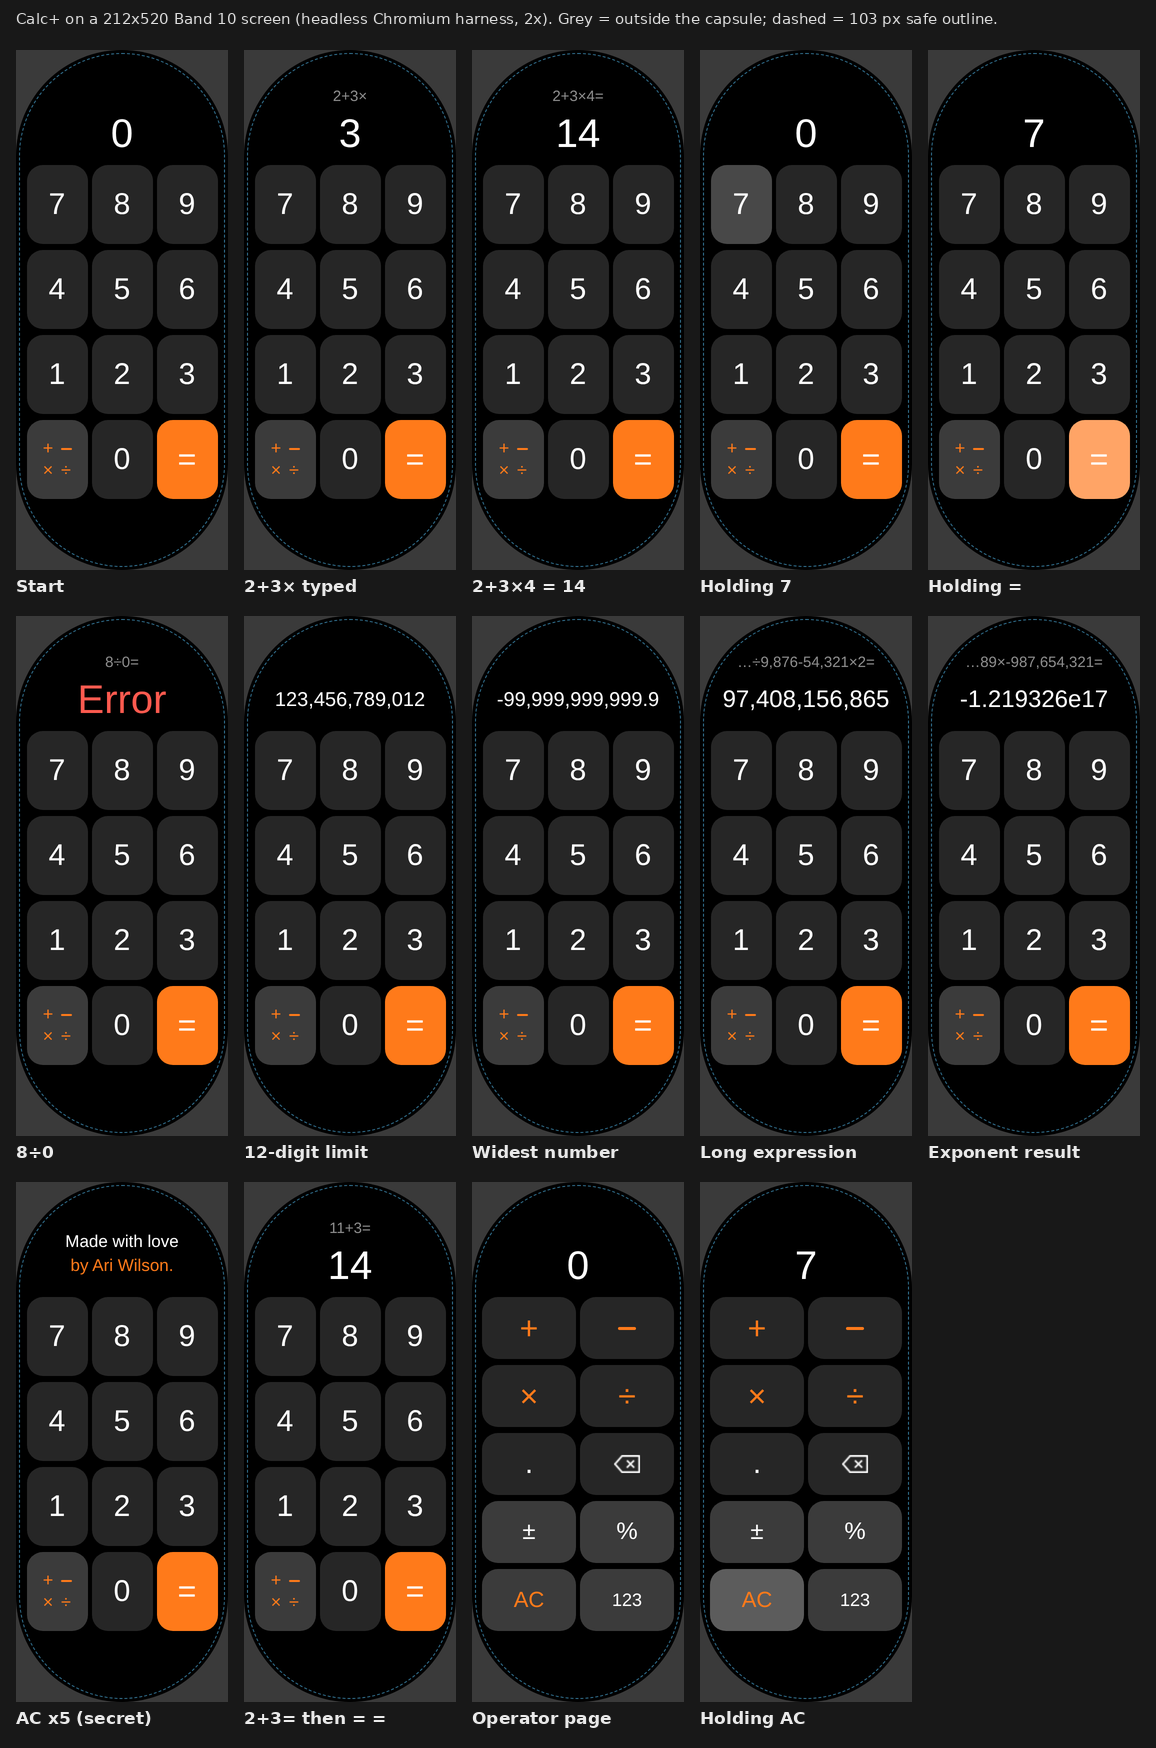
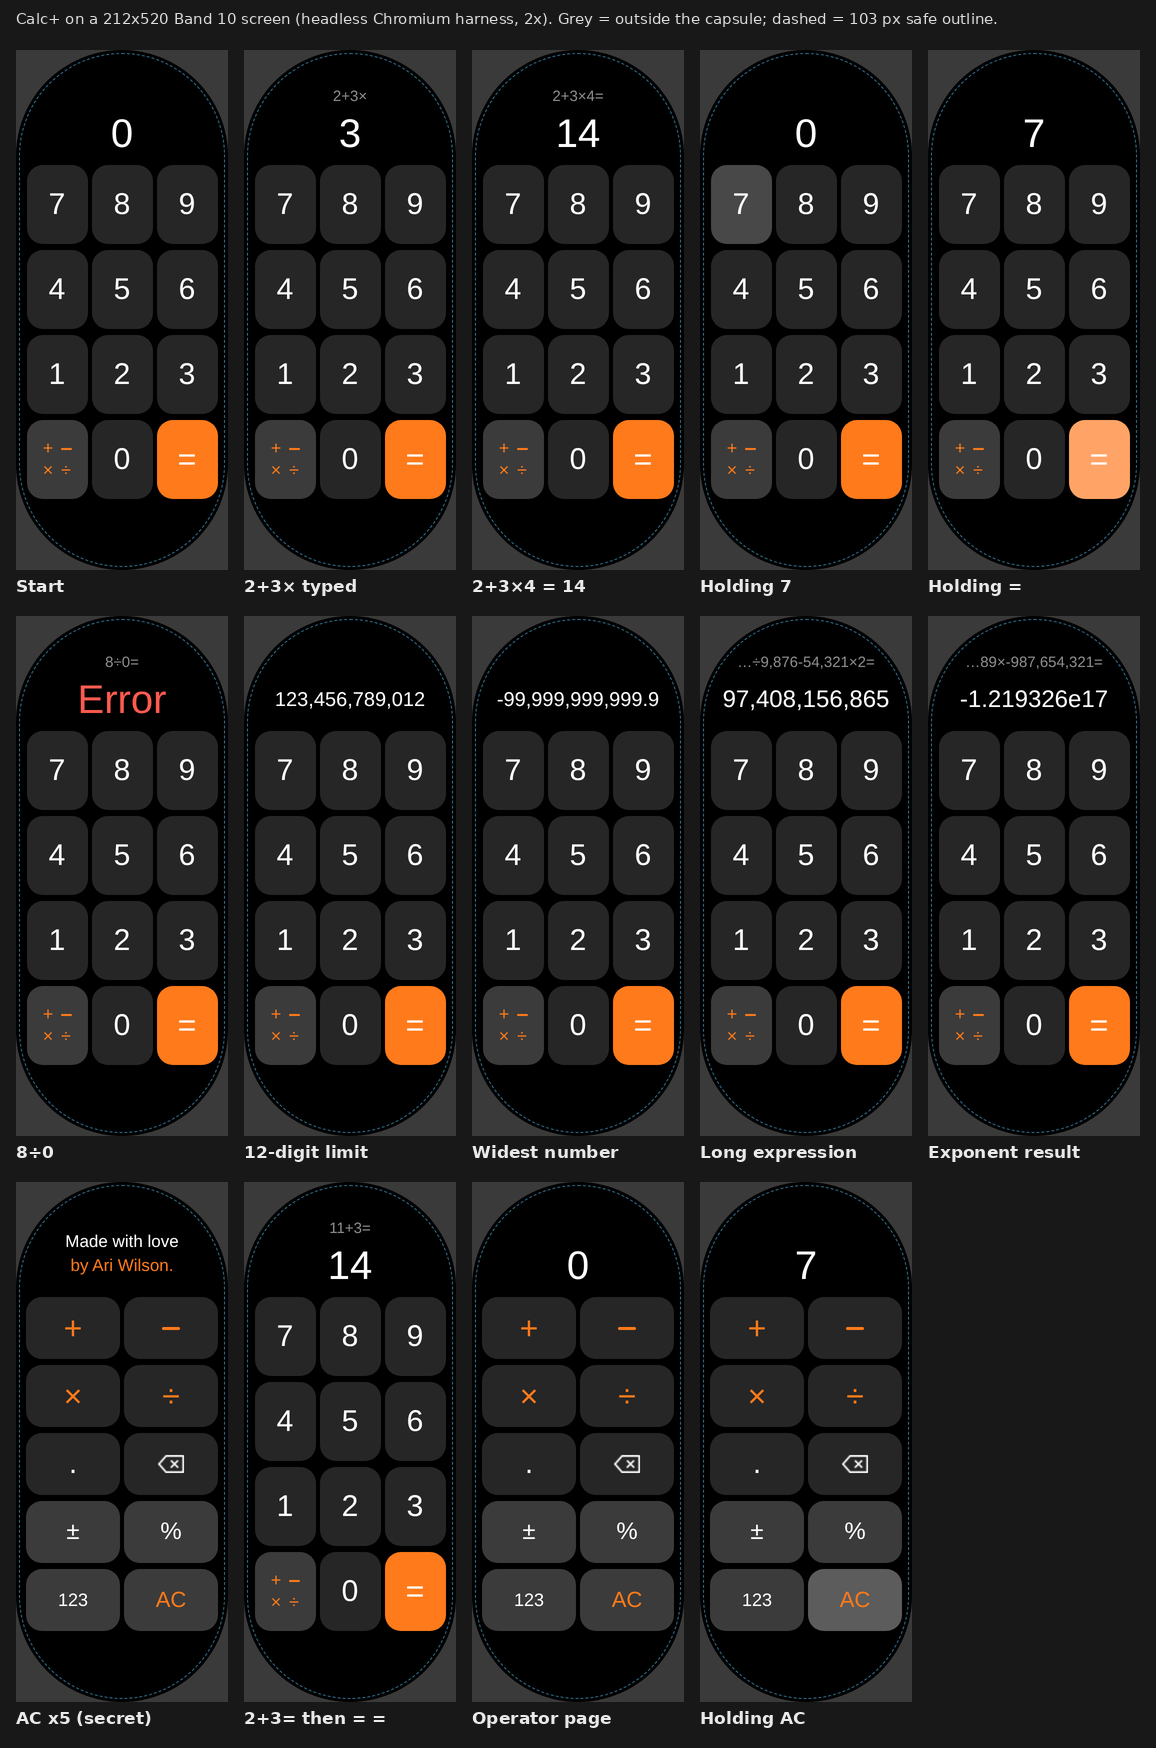
Put 123 under +−×÷ and AC bottom right; let AC repeat for the secret
The page switch was bottom left on the digit page but bottom right on the
operator page. 123 now sits in the same bottom-left spot as +−×÷, so one
spot toggles the pages, and AC moves to the bottom right.

AC flipped back to the digits every time, so pressing it five times in a
row meant +−×÷, AC, five times. With AC no longer under the switch, that
would mean alternating corners. AC now stays on the operator page when
there's nothing left to clear, so the secret is +−×÷ then AC five times.
An AC that clears something still flips back. Page flips now restart the
AC count, so five taps on AC after flipping back is always five.

Bumps the version to 2.1.0 (versionCode 5) so it installs over 2.0.0.

Claude-Session: https://claude.ai/code/session_01VJHwqkGHBBK4uPWLA6xmah

diff --git a/src/common/calc.js b/src/common/calc.js
@@ -158,6 +158,11 @@ export function pressClear() {
   return newCalc()
 }
 
+// Nothing for AC to clear: the state a fresh calculator starts in.
+export function isClear(s) {
+  return !s.tokens.length && s.entry === '0' && !s.locked && !s.history && !s.error
+}
+
 export function pressBack(s) {
   if (s.error || s.history) return newCalc()
   s = copy(s)
@@ -207,7 +212,8 @@ export function pressPercent(s) {
 // AC this many times in a row shows the credit line.
 export var SECRET_AC_PRESSES = 5
 
-// AC presses in a row, counting this key; any other key resets it.
+// AC presses in a row, counting this key; any other key, page flips
+// included, resets it.
 export function nextAcStreak(streak, key) {
   return key === 'ac' ? streak + 1 : 0
 }

diff --git a/README.md b/README.md
@@ -16,11 +16,13 @@ build machine.
   per key.
   - **Digit page** (3×4): `7 8 9 / 4 5 6 / 1 2 3 / [+−×÷] 0 =`. Keys are
     61×79 px, about 4.8×6.2 mm.
-  - **Operator page** (2×5): `+ − / × ÷ / . ⌫ / ± % / AC 123`. Keys are
+  - **Operator page** (2×5): `+ − / × ÷ / . ⌫ / ± % / 123 AC`. Keys are
     94×62 px, about 7.4×4.8 mm.
-  - The orange `+−×÷` key flips to the operator page. Every key there flips
-    back to the digits after doing its job, except `⌫`, which stays so you
-    can delete several digits. `123` flips back without doing anything.
+  - The orange `+−×÷` key flips to the operator page, and `123`, in the same
+    bottom-left spot, flips back without doing anything, so one spot toggles
+    the pages. Every other key there flips back to the digits after doing
+    its job, except `⌫`, which stays so you can delete several digits, and
+    AC when there's nothing left to clear, so it can be pressed again.
   - Each key's whole grid cell, gaps included, is its touch target.
   - The app always opens on the digit page.
   - `128+3×45=` takes 11 taps: one extra per operator, and for `.`.
@@ -60,10 +62,11 @@ build machine.
 - State is saved on every key press and restored on launch, so it survives
   the band killing the app.
 - Secret: press AC five times in a row and the display shows "Made with
-  love / by Ari Wilson." AC is on the operator page, so it takes `+−×÷`, AC,
-  five times; the page flips don't break the count. The next key press
-  dismisses it and still does its job. Any other key in between restarts
-  the count. It isn't saved, so it's gone after a relaunch.
+  love / by Ari Wilson." From a cleared calculator that's `+−×÷`, then AC
+  five times. If the first AC clears something, it flips back to the digits
+  as usual: tap `+−×÷` and AC five more times. Any other key in between,
+  page flips included, restarts the count. The next key press dismisses it
+  and still does its job. It isn't saved, so it's gone after a relaunch.
 
 `−` on its keys is a drawn bar, and `⌫` is a small PNG, because the band's
 font may lack U+2212 and U+232B. In the expression and result lines, minus is
@@ -72,7 +75,7 @@ the ASCII hyphen for the same reason.
 ## Install on the band
 
 Install the debug package from `npm run build`:
-`dist/com.ariwilson.bandcalc.debug.2.0.0.rpk`. It's the only kind that can
+`dist/com.ariwilson.bandcalc.debug.2.1.0.rpk`. It's the only kind that can
 be sideloaded; don't use `aiot release`.
 
 Pick one (all unofficial; Xiaomi offers no public sideload):
